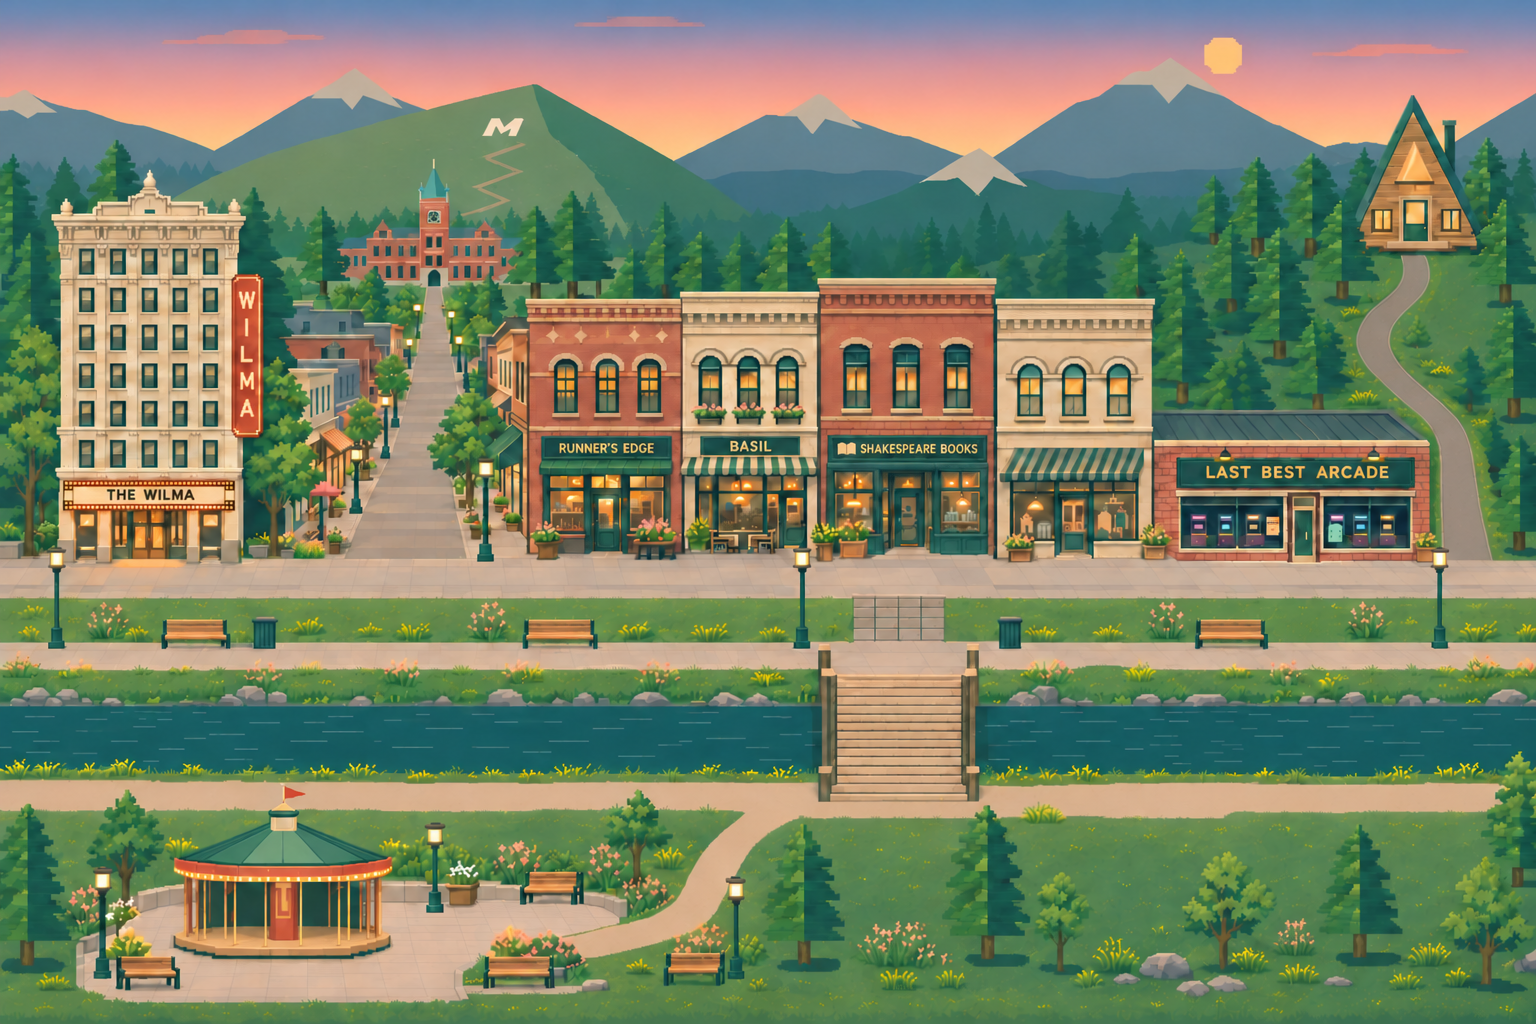
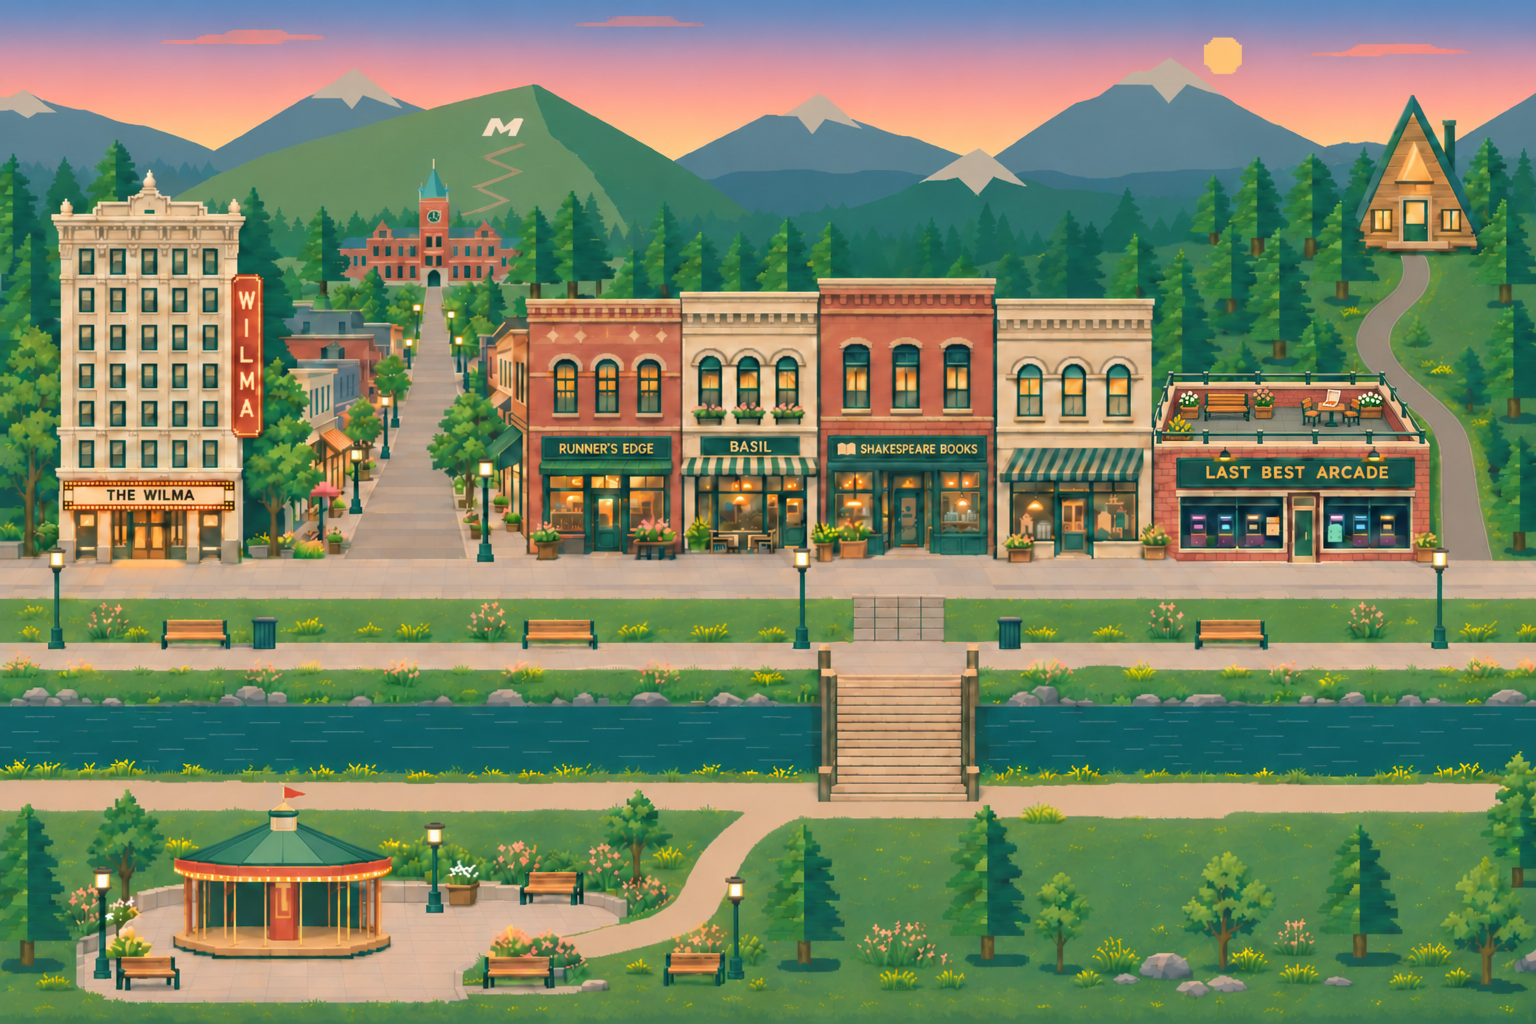
match the arcade rooftop (#130)

diff --git a/eightbit/woodland.js b/eightbit/woodland.js
@@ -2,7 +2,7 @@
 // Woodland wildlife can travel behind these buildings, never across their faces.
 export const woodlandBuildings = [
   [[522,299],[681,299],[681,292],[817,292],[817,278],[995,278],[995,299],[1154,299],[1154,562],[522,562]],
-  [[1154,410],[1406,410],[1432,443],[1432,562],[1154,562]],
+  [[1154,443],[1168,382],[1387,382],[1432,443],[1432,562],[1154,562]],
   [[1356,236],[1415,94],[1478,240],[1478,255],[1356,255]],
 ];
 
